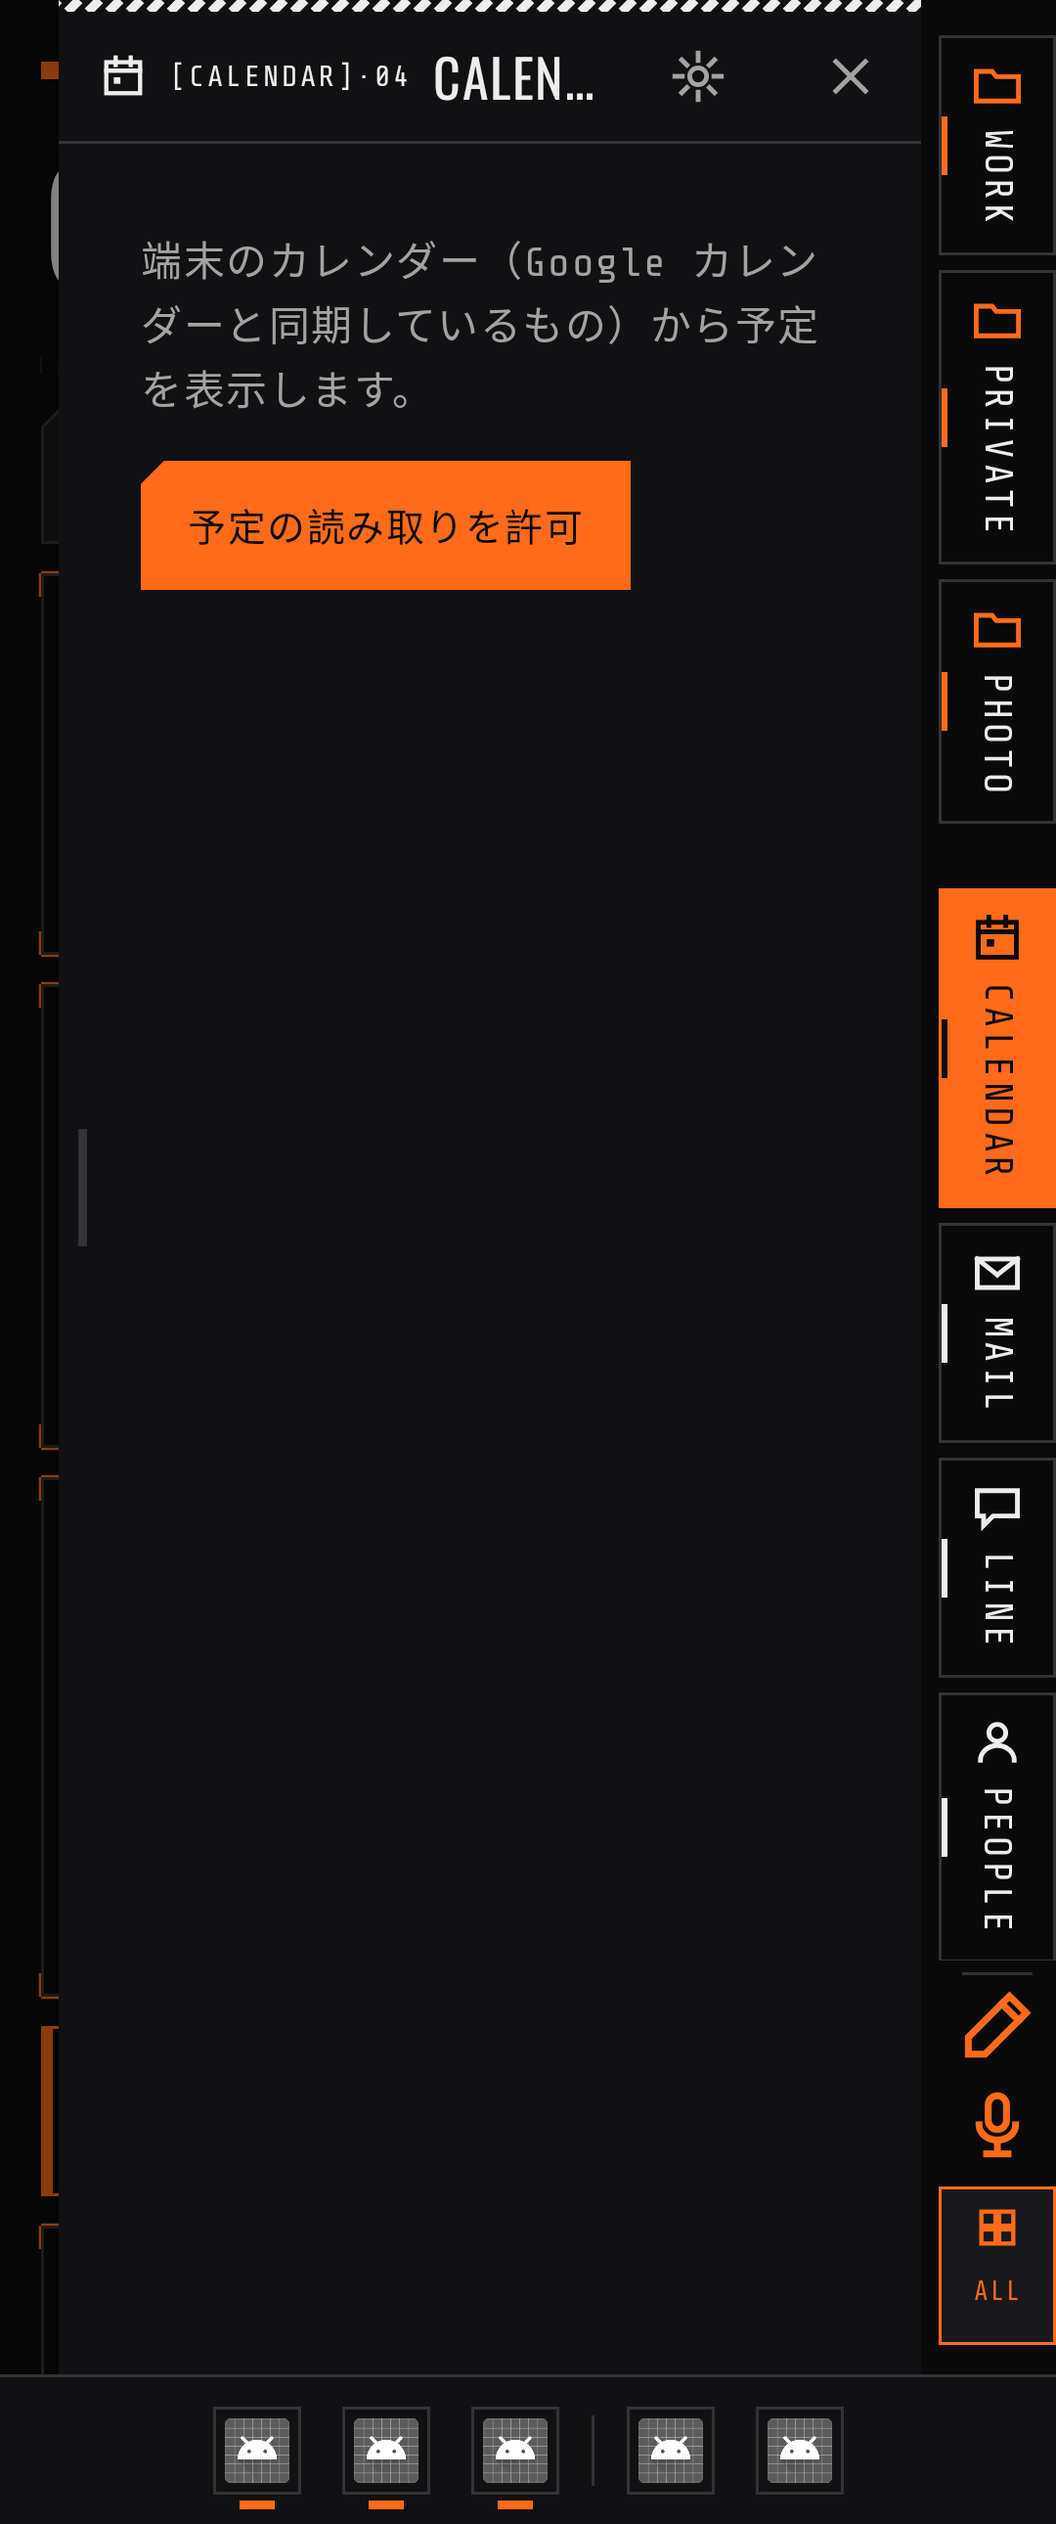
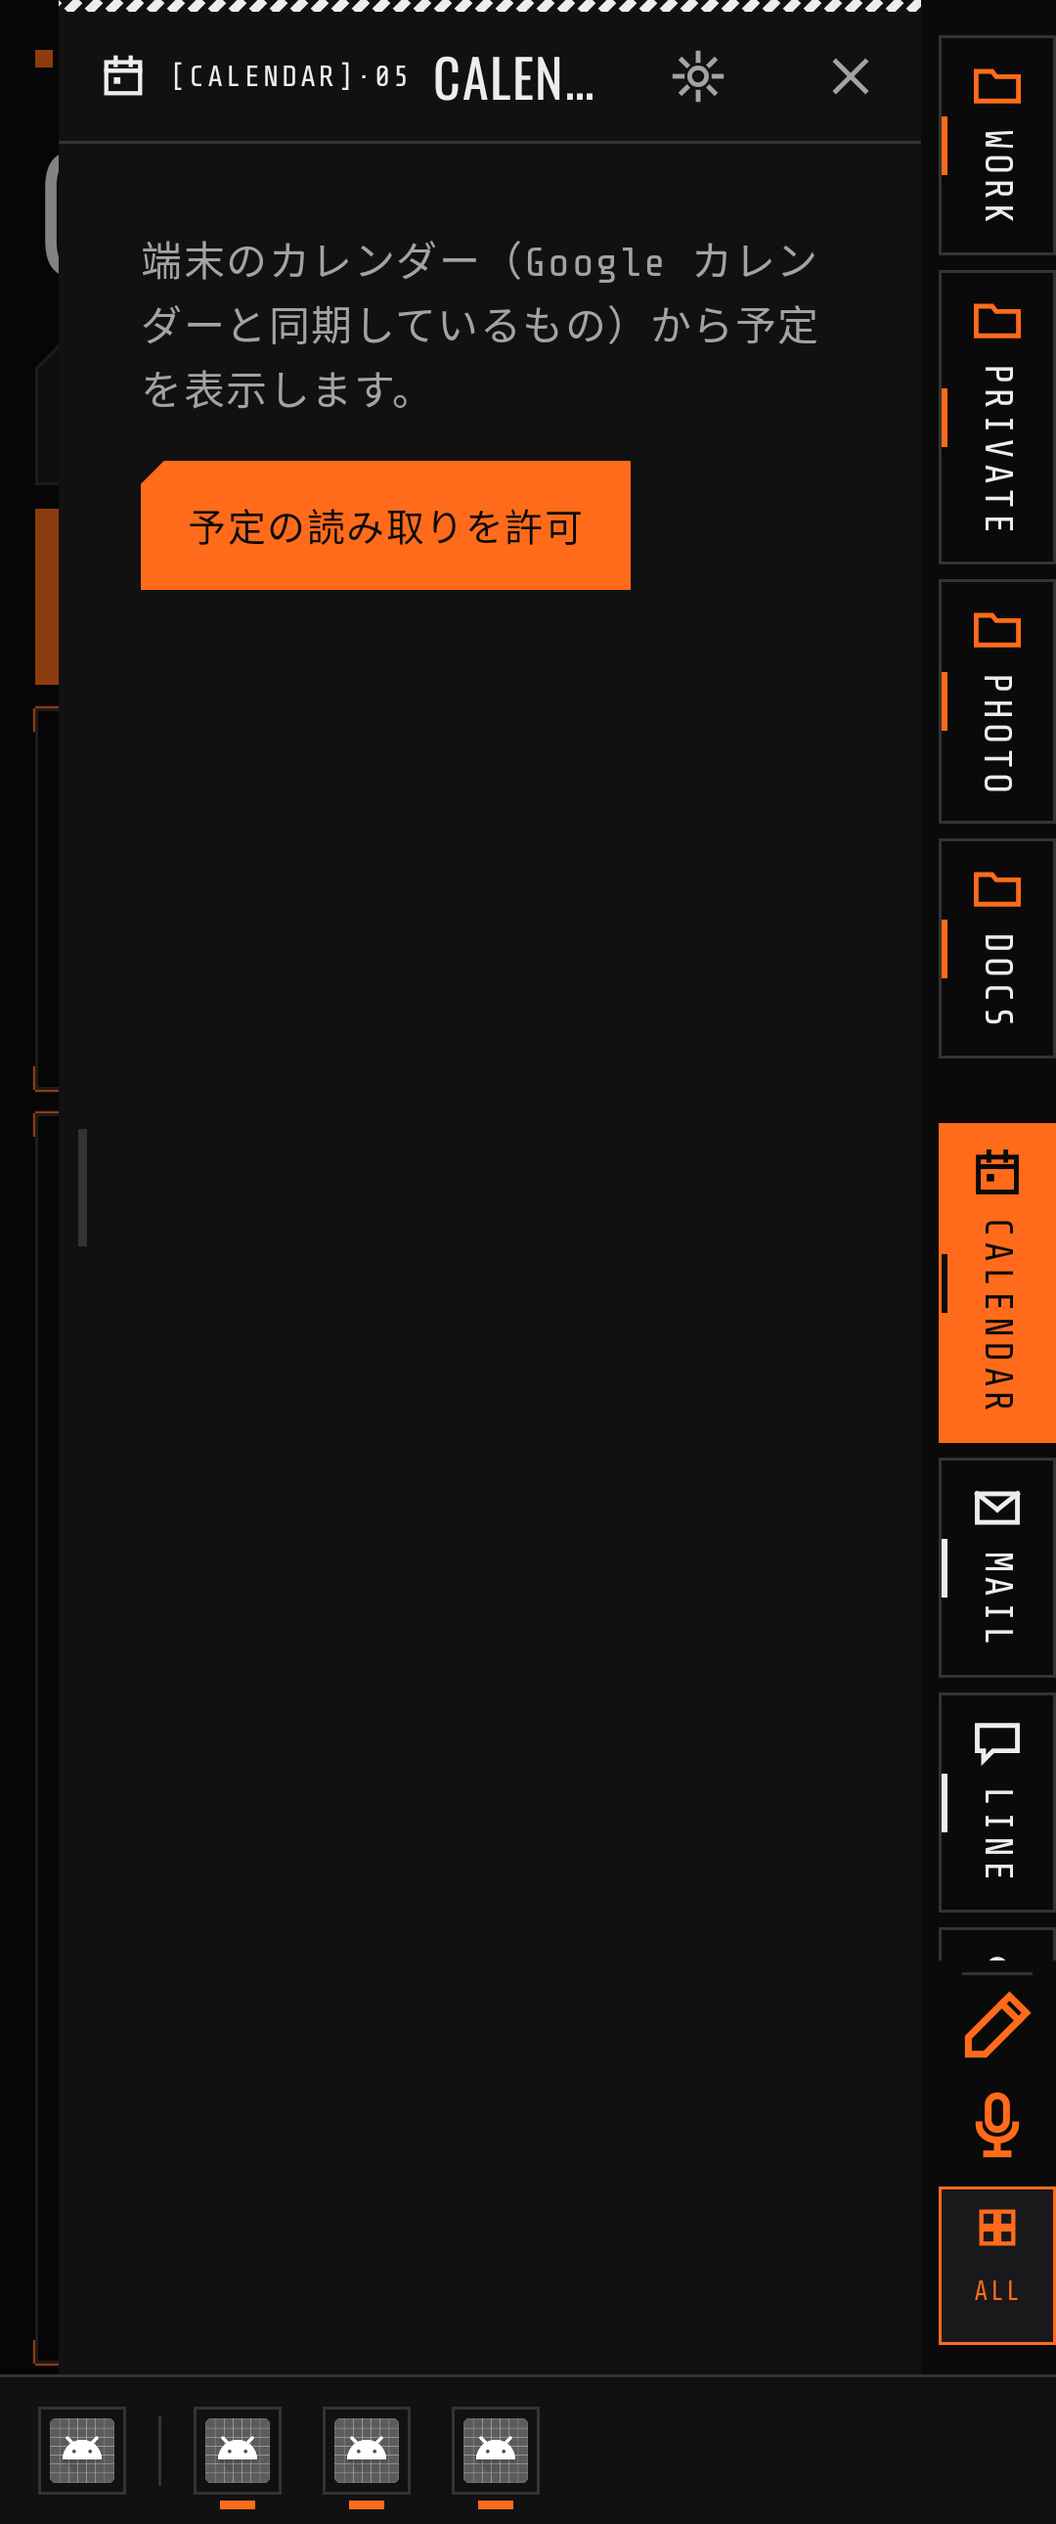
1.6.0: タスクバーにピン留め（好きな順・横スクロール、最近は後ろに 4 つ）
Claude-Session: https://claude.ai/code/session_01GMSgoGarRChJJQLGtjAFKY

diff --git a/app/src/main/java/app/thetahatch/home/ui/HomeRoot.kt b/app/src/main/java/app/thetahatch/home/ui/HomeRoot.kt
@@ -1,5 +1,6 @@
 package app.thetahatch.home.ui
 
+import androidx.compose.foundation.horizontalScroll
 import androidx.compose.foundation.layout.wrapContentHeight
 import androidx.compose.foundation.layout.FlowRow
 import androidx.compose.foundation.layout.ExperimentalLayoutApi
@@ -426,43 +427,65 @@ private fun Taskbar(model: HomeModel) {
         val home = Intent(Intent.ACTION_MAIN).addCategory(Intent.CATEGORY_HOME)
         runCatching { ctx.packageManager.queryIntentActivities(home, 0).map { it.activityInfo.packageName } }.getOrDefault(emptyList()).toSet() + ctx.packageName
     }
-    var label by remember { mutableStateOf<String?>(null) }
+    var menu by remember { mutableStateOf<String?>(null) }
+    val pins = model.taskbarItems()
+    val pinnedPkgs = pins.mapNotNull { (it.second as? AppEntry)?.packageName }.toSet()
     Column(Modifier.fillMaxWidth().background(p.panel)) {
         Box(Modifier.fillMaxWidth().height(1.dp).background(p.line))
-        BoxWithConstraints(Modifier.fillMaxWidth().height(50.dp).padding(horizontal = 6.dp), contentAlignment = Alignment.Center) {
-            val cell = 44.dp
-            val total = ((maxWidth - 10.dp) / cell).toInt().coerceAtLeast(1)
-            val known = model.apps.map { it.packageName }.toSet()
-            val (recent, frequent) = AppUsage.pick(model.usageRecent, model.usageCounts, known, skip, recentMax = (total + 1) / 2, total = total)
-            fun app(pkg: String) = model.apps.firstOrNull { it.packageName == pkg }
-            if (recent.isEmpty() && frequent.isEmpty()) {
-                Text(
-                    "最近使ったアプリをここに出す（使用状況へのアクセスを許可）", color = p.muted, fontSize = 12.sp, maxLines = 1, overflow = TextOverflow.Ellipsis,
-                    modifier = Modifier.clickable { actions.start(Intent(android.provider.Settings.ACTION_USAGE_ACCESS_SETTINGS)) },
-                )
-            } else Row(Modifier.fillMaxWidth(), verticalAlignment = Alignment.CenterVertically, horizontalArrangement = Arrangement.Center) {
-                @Composable
-                fun Cell(pkg: String, running: Boolean) {
-                    val a = app(pkg) ?: return
+        // ピン留めしたもの（好きな順）→ 区切り → 最近使ったもの（ピン留めに無いもの）。入りきらなければ横にスクロール
+        val known = model.apps.map { it.packageName }.toSet()
+        val (recent, _) = AppUsage.pick(model.usageRecent, model.usageCounts, known, skip + pinnedPkgs, recentMax = if (pins.isEmpty()) 8 else 4, total = if (pins.isEmpty()) 8 else 4)
+        val cell = 44.dp
+        if (pins.isEmpty() && recent.isEmpty()) {
+            Text(
+                "START でアイコンを長押し →「タスクバーにピン留め」でここに並びます", color = p.muted, fontSize = 12.sp, maxLines = 1, overflow = TextOverflow.Ellipsis,
+                modifier = Modifier.fillMaxWidth().height(50.dp).wrapContentHeight().padding(horizontal = 10.dp),
+            )
+        } else Row(
+            Modifier.fillMaxWidth().height(50.dp).horizontalScroll(rememberScrollState()).padding(horizontal = 6.dp),
+            verticalAlignment = Alignment.CenterVertically,
+        ) {
+            pins.forEachIndexed { i, (key, item) ->
+                Box {
+                    Box(
+                        Modifier.size(cell).combinedClickable(
+                            onClick = { dockLaunch(model, actions, item) },
+                            onLongClick = { menu = key },
+                            onClickLabel = "開く", onLongClickLabel = "並べ替え・外す",
+                        ).semantics { contentDescription = dockLabel(item) },
+                        contentAlignment = Alignment.Center,
+                    ) { DockIcon(model, item, 30.dp) }
+                    DropdownMenu(expanded = menu == key, onDismissRequest = { menu = null }) {
+                        Text(dockLabel(item), color = p.muted, fontSize = 12.sp, modifier = Modifier.padding(horizontal = 16.dp, vertical = 4.dp))
+                        if (i > 0) DropdownMenuItem(text = { Text("◀ 前へ") }, onClick = { model.moveTaskbarPin(key, -1) })
+                        if (i < pins.lastIndex) DropdownMenuItem(text = { Text("▶ 後ろへ") }, onClick = { model.moveTaskbarPin(key, 1) })
+                        DropdownMenuItem(text = { Text("タスクバーから外す") }, onClick = { menu = null; model.toggleTaskbarPin(key) })
+                    }
+                }
+            }
+            if (pins.isNotEmpty() && recent.isNotEmpty()) Box(Modifier.padding(horizontal = 4.dp).width(1.dp).height(24.dp).background(p.line))
+            recent.forEach { pkg ->
+                val a = model.apps.firstOrNull { it.packageName == pkg } ?: return@forEach
+                Box {
                     Box(
                         Modifier.size(cell).combinedClickable(
                             onClick = { actions.start(Apps.launchIntent(a)) },
-                            onLongClick = { label = a.label },
-                            onClickLabel = "開く",
-                        ).semantics { contentDescription = a.label + if (running) "（最近）" else "" },
+                            onLongClick = { menu = "recent:" + a.key },
+                            onClickLabel = "開く", onLongClickLabel = "ピン留め",
+                        ).semantics { contentDescription = a.label + "（最近）" },
                         contentAlignment = Alignment.Center,
                     ) {
                         AppIcon(a, 30.dp)
-                        if (running) Box(Modifier.align(Alignment.BottomCenter).padding(bottom = 2.dp).width(12.dp).height(3.dp).background(p.accent))
+                        Box(Modifier.align(Alignment.BottomCenter).padding(bottom = 2.dp).width(12.dp).height(3.dp).background(p.accent))
+                    }
+                    DropdownMenu(expanded = menu == "recent:" + a.key, onDismissRequest = { menu = null }) {
+                        Text(a.label, color = p.muted, fontSize = 12.sp, modifier = Modifier.padding(horizontal = 16.dp, vertical = 4.dp))
+                        DropdownMenuItem(text = { Text("タスクバーにピン留め") }, onClick = { menu = null; model.toggleTaskbarPin(a.key) })
                     }
                 }
-                recent.forEach { Cell(it, running = true) }
-                if (recent.isNotEmpty() && frequent.isNotEmpty()) Box(Modifier.padding(horizontal = 4.dp).width(1.dp).height(24.dp).background(p.line))
-                frequent.forEach { Cell(it, running = false) }
             }
         }
     }
-    label?.let { l -> LaunchedEffect(l) { actions.toast(l); label = null } }
 }
 
 /** 端の下に固定のよく使うアプリ・ショートカット。押すと開く、長押しで並べ替え・外す・選ぶ。 */

diff --git a/app/src/main/java/app/thetahatch/home/ui/Drawers.kt b/app/src/main/java/app/thetahatch/home/ui/Drawers.kt
@@ -574,6 +574,7 @@ private fun AppMenu(model: HomeModel, app: AppEntry, expanded: Boolean, close: (
         DropdownMenuItem(text = { Text("ショートカット（タブに置く）") }, onClick = { close(); shortcuts() })
         DropdownMenuItem(text = { Text(model.nicknamesOf(app).let { if (it.isEmpty()) "呼び名をつける（声で開く・検索）" else "呼び名：" + it.joinToString("、") }) }, onClick = { close(); naming = true })
         DropdownMenuItem(text = { Text(if (model.isStartPinned(app)) "スタートから外す" else "スタートにピン留め") }, onClick = { close(); model.toggleStartPin(app.key) })
+        DropdownMenuItem(text = { Text(if (model.isTaskbarPinned(app.key)) "タスクバーから外す" else "タスクバーにピン留め") }, onClick = { close(); model.toggleTaskbarPin(app.key) })
         DropdownMenuItem(text = { Text(if (model.isPinned(app)) "端の下のピン留めを外す" else "端の下にピン留め") }, onClick = { close(); model.toggleDockApp(app) })
         DropdownMenuItem(text = { Text("カテゴリーを変える") }, onClick = { close(); move() })
         DropdownMenuItem(text = { Text("アプリ情報") }, onClick = { actions.start(Apps.infoIntent(app.packageName)); close() })
@@ -608,6 +609,7 @@ private fun NicknameDialog(model: HomeModel, app: AppEntry, onDismiss: () -> Uni
 private fun ShortcutMenu(model: HomeModel, sc: PinnedShortcut, expanded: Boolean, close: () -> Unit, rename: () -> Unit) {
     DropdownMenu(expanded = expanded, onDismissRequest = close) {
         DropdownMenuItem(text = { Text(if ("sc:" + sc.id in model.startPins) "スタートから外す" else "スタートにピン留め") }, onClick = { close(); model.toggleStartPin("sc:" + sc.id) })
+        DropdownMenuItem(text = { Text(if (model.isTaskbarPinned("sc:" + sc.id)) "タスクバーから外す" else "タスクバーにピン留め") }, onClick = { close(); model.toggleTaskbarPin("sc:" + sc.id) })
         DropdownMenuItem(text = { Text(if ("sc:" + sc.id in model.favoriteApps) "端の下のピン留めを外す" else "端の下にピン留め") }, onClick = { close(); model.toggleDock("sc:" + sc.id) })
         DropdownMenuItem(text = { Text("名前を変える") }, onClick = { close(); rename() })
         DropdownMenuItem(text = { Text("このショートカットを外す") }, onClick = { close(); model.removeShortcut(sc.id) })

diff --git a/app/src/main/java/app/thetahatch/home/HomeModel.kt b/app/src/main/java/app/thetahatch/home/HomeModel.kt
@@ -1904,6 +1904,24 @@ class HomeModel(app: Application) : AndroidViewModel(app) {
         store.startPins = startPins
     }
 
+    // ---- 下のタスクバーのピン留め：よく使うアプリを好きに並べる（入りきらなければ横にスクロール） ----
+
+    var taskbarPins by mutableStateOf(store.taskbarPins); private set
+    fun taskbarItems(): List<Pair<String, Any>> = itemsFor(taskbarPins)
+    fun isTaskbarPinned(key: String) = key in taskbarPins
+    fun toggleTaskbarPin(key: String) {
+        taskbarPins = if (key in taskbarPins) taskbarPins - key else taskbarPins + key
+        store.taskbarPins = taskbarPins
+        (ctx as HomeApp).toast(if (key in taskbarPins) "タスクバーにピン留めしました" else "タスクバーから外しました")
+    }
+    fun moveTaskbarPin(key: String, delta: Int) {
+        val i = taskbarPins.indexOf(key)
+        val j = i + delta
+        if (i < 0 || j !in taskbarPins.indices) return
+        taskbarPins = taskbarPins.toMutableList().also { it.add(j, it.removeAt(i)) }
+        store.taskbarPins = taskbarPins
+    }
+
     /** ピン留めのキー（アプリ・"pkg:"・"sc:"・"act:"）から、出すもの（アプリ・ショートカット・機能）へ。無くなったものは飛ばす。 */
     private fun itemsFor(keys: List<String>): List<Pair<String, Any>> = keys.mapNotNull { key ->
         when {

diff --git a/app/src/main/java/app/thetahatch/home/data/Backup.kt b/app/src/main/java/app/thetahatch/home/data/Backup.kt
@@ -60,6 +60,7 @@ object Backup {
             // ピン留めしたファイル（端末のファイルは、読み込んだ端末で開けないことがある）
             .put("pinnedFiles", JSONArray(store.pinnedFiles.map { it.toJson() }))
             .put("startPins", JSONArray(store.startPins))
+            .put("taskbarPins", JSONArray(store.taskbarPins))
             .put("appOrder", JSONObject(store.appOrder().mapValues { JSONArray(it.value) }))
             .put("tabOpts", JSONObject(store.prefs.getString("tabOpts", "{}") ?: "{}"))
             .put("nas", JSONObject().put("url", store.prefs.getString("nasUrl", "")).put("account", store.prefs.getString("nasAccount", "")))
@@ -110,6 +111,7 @@ object Backup {
         o.optJSONArray("queries")?.let { e.putString("queries", it.toString()).putBoolean("queriesSeeded", true) }
         o.optJSONArray("pinnedFiles")?.let { e.putString("pinnedFiles", it.toString()) }
         o.optJSONArray("startPins")?.let { e.putString("startPins", it.toString()) }
+        o.optJSONArray("taskbarPins")?.let { e.putString("taskbarPins", it.toString()) }
         e.putString("location", o.optString("location", ""))
         val nas = o.optJSONObject("nas")
         val nasUrl = nas?.optString("url").orEmpty()

diff --git a/docs/index.html b/docs/index.html
@@ -177,7 +177,7 @@ footer { margin-top:80px; border-top:1px solid var(--line); padding:24px 0 40px;
       <p class="lead">背景はファイラー、画面の端にタブ。<br>アイコンを並べない、計器盤（HUD）のようなホームアプリ。</p>
       <div class="ticks"></div>
       <div style="margin:16px 0">
-        <span class="readout"><span class="label">VERSION</span><b id="ver">1.5.1</b></span>
+        <span class="readout"><span class="label">VERSION</span><b id="ver">1.6.0</b></span>
         <span class="readout"><span class="label">ANDROID</span><b>10+</b></span>
         <span class="readout alert"><span class="label">STATUS</span><b>BETA</b></span>
       </div>

diff --git a/app/src/test/java/app/thetahatch/home/ScreenshotTest.kt b/app/src/test/java/app/thetahatch/home/ScreenshotTest.kt
@@ -1150,6 +1150,8 @@ class ScreenshotTest {
         launch { app ->
             app.store.launchRecent = listOf("com.example.music", "com.example.chat")
             app.store.launchCounts = mapOf("com.example.notes" to 9, "com.example.maps" to 4, "com.example.chat" to 3)
+            // ピン留めしたものが先、最近使ったものはその後ろ
+            app.store.taskbarPins = listOf("pkg:com.example.notes")
         }
         compose.waitForIdle()
         compose.onNodeWithContentDescription("Music（最近）").assertExists()

diff --git a/app/src/main/java/app/thetahatch/home/data/Store.kt b/app/src/main/java/app/thetahatch/home/data/Store.kt
@@ -655,6 +655,11 @@ class Store(context: Context) {
         get() = strings("startPins")
         set(v) = putStrings("startPins", v)
 
+    /** 下のタスクバーにピン留めしたもの（アプリ・ショートカット）。 */
+    var taskbarPins: List<String>
+        get() = strings("taskbarPins")
+        set(v) = putStrings("taskbarPins", v)
+
     /** ピン留めしたファイル（並べた順）。 */
     var pinnedFiles: List<PinnedFile>
         get() = objects("pinnedFiles") { PinnedFile.fromJson(it) }

diff --git a/README.md b/README.md
@@ -8,7 +8,7 @@
 スマホはアプリには行きやすいのにファイルには行きにくいので、PC のデスクトップのように「ファイルの置き場」をホームにする。ただ散らかして置くのではなく、ファイラーとして置く。
 
 - **ダウンロード：[Releases](https://github.com/kiwiman0706-beep/Theta.Home.Hatch/releases)**（`ThetaHomeHatch-<版>.apk`）
-- 版：**1.5.1（versionCode 151）**／package `app.thetahatch.home`（0.42 までは `jp.yaegaki.theta.home`）／Android 10（API 29）以上
+- 版：**1.6.0（versionCode 160）**／package `app.thetahatch.home`（0.42 までは `jp.yaegaki.theta.home`）／Android 10（API 29）以上
 - [Theta Hatch シリーズ](https://github.com/kiwiman0706-beep/Theta.Hatch.Series)の 1 つ。シリーズの**更新のハブ・設定のハブ**を兼ねる（下の「Hatch シリーズのハブ」）
 - 対象：Galaxy Z Fold5（カバー・メイン）、Alldocube iPlay 60 / 80 Pro 系、Unihertz Titan 2（物理キーボード）
 - **実機での確認はまだです。** 画面は JVM 上で描いて確かめています（[`docs/screenshots/`](docs/screenshots)）。

diff --git a/CHANGELOG.md b/CHANGELOG.md
@@ -1,5 +1,11 @@
 # 変更履歴
 
+## 1.6.0（2026-11-11）
+
+- **タスクバーにピン留め**：START でアプリ・ショートカットを長押し →「タスクバーにピン留め」。下のタスクバーに好きな順で並ぶ（長押しで前へ・後ろへ・外す）
+- タスクバーは、ピン留め → 区切り → 最近使ったもの（4 つまで、ピン留めに無いもの）。入りきらなければ横にスクロール。最近のものも長押しでピン留めできる
+- 設定の書き出し・読み込みにも入る
+
 ## 1.5.1（2026-11-11）
 
 - 予定のタブ：表示の切り替えを「月・週・日・今」に。貼り付けて登録は「📃⊕」、チラシを撮るは「📷⊕」にして、同じ行に並べた（折り返して場所を取っていたので）

diff --git a/docs/release-notes/v1.6.0.md b/docs/release-notes/v1.6.0.md
@@ -1,0 +1,7 @@
+# Theta Home Hatch 1.6.0
+
+- **タスクバーにピン留め**：START でアプリ（ショートカットも）を長押し →「タスクバーにピン留め」で、下のタスクバーに好きな順で並びます
+  - タスクバーのアイコンを長押しで「◀ 前へ」「▶ 後ろへ」「タスクバーから外す」
+  - 最近使ったアプリ（下に線）は、ピン留めの後ろに 4 つまで。長押しでピン留めできます
+  - 入りきらないときは横にスクロールします
+- 設定の書き出し・読み込みにも入ります
